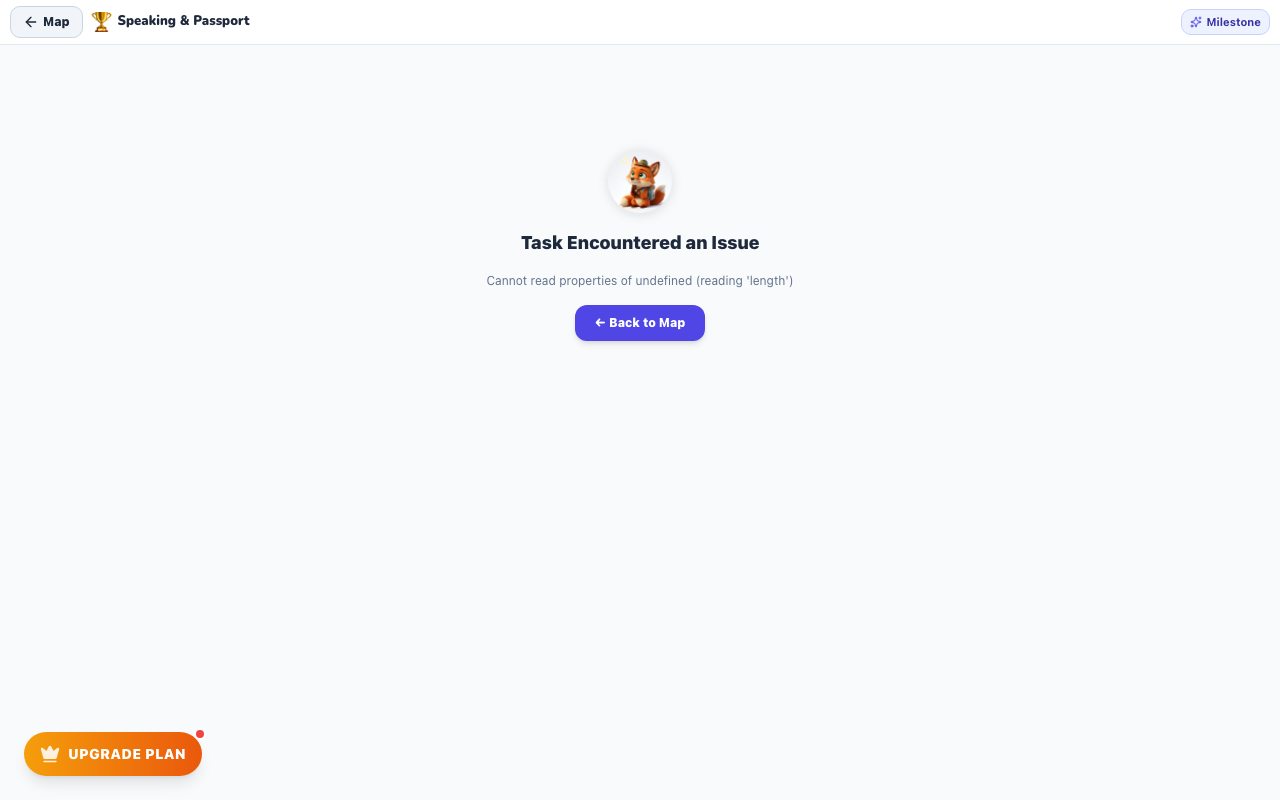
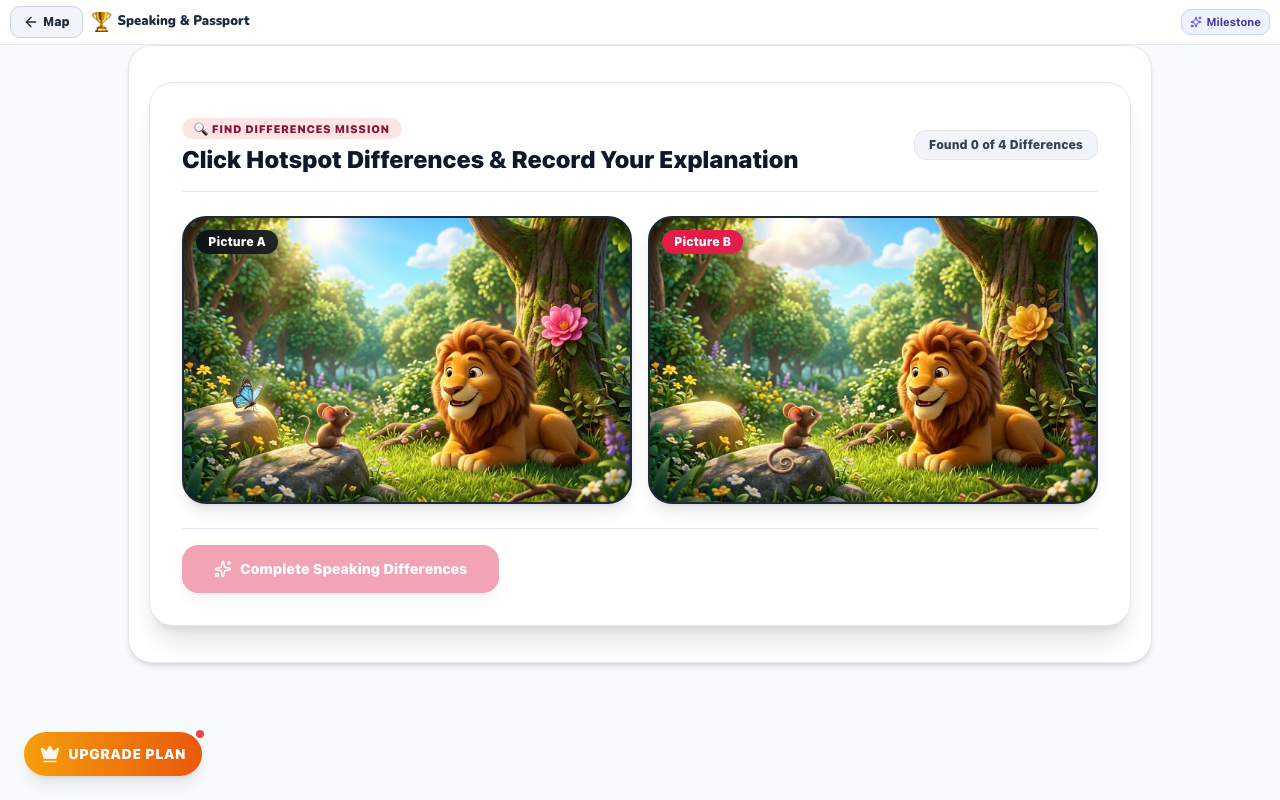
fix(w34): solve math_quest problemText, info_exchange 10+ char words, and FindDifferences data [multi-agent-review]

Changed region(s): [[0.125, 0.1562, 0.875, 0.75], [0.125, 0.7812, 0.875, 0.8125], [0.7188, 0.1562, 0.8438, 0.1875]]

diff --git a/src/data/weeks/week_34/speaking_hub.js b/src/data/weeks/week_34/speaking_hub.js
@@ -8,23 +8,23 @@ export const speakingHub = {
     candidate_card: {
       title: "The Lion's Home",
       items: [
-        { label: "Location", value: "Green Valley Forest" },
-        { label: "Favorite Food", value: "Fresh Fish & Fruit" },
-        { label: "Resting Time", value: "Sunny Afternoons" }
+        { label: "Wilderness Location", value: "Green Wilderness Forest" },
+        { label: "Freshwater Food", value: "Freshwater River Fish" },
+        { label: "Resting Time", value: "Sunny Peaceful Afternoons" }
       ]
     },
     examiner_card: {
-      title: "The Mouse's Home",
+      title: "The Mouse's Burrow",
       items: [
-        { label: "Location", value: "Under the Tall Oak Tree" },
-        { label: "Special Skill", value: "Chewing Strong Ropes" },
-        { label: "Best Friend", value: "The Mighty Lion" }
+        { label: "Burrow Location", value: "Underneath the Oak Tree" },
+        { label: "Protective Skill", value: "Chewing Strong Ropes" },
+        { label: "Loyal Friendship", value: "The Mighty Lion" }
       ]
     },
     prompt_questions: [
-      "Where does the lion live?",
-      "What is the lion's favorite food?",
-      "When does he like to rest?"
+      "Where is the lion's wilderness location?",
+      "What is his favorite freshwater food?",
+      "When does he enjoy peaceful afternoons?"
     ]
   },
   find_differences: {

diff --git a/src/components/cambridge/FindDifferencesInteractive.jsx b/src/components/cambridge/FindDifferencesInteractive.jsx
@@ -16,10 +16,16 @@ export function FindDifferencesInteractive({ customData, onComplete, isStealthMo
   const [score, setScore] = useState(null);
   const recognitionRef = useRef(null);
 
-  const differencesData = customData || {
-    picA: { title: 'Picture A (Original Scene)', image_url: '' },
-    picB: { title: 'Picture B (Difference Scene)', image_url: '' },
-    hotspots: []
+  const rawHotspots = (customData?.hotspots && Array.isArray(customData.hotspots))
+    ? customData.hotspots
+    : (customData?.differences && Array.isArray(customData.differences))
+      ? customData.differences
+      : [];
+
+  const differencesData = {
+    picA: customData?.picA || { title: 'Picture A (Original Scene)', image_url: '' },
+    picB: customData?.picB || { title: 'Picture B (Difference Scene)', image_url: '' },
+    hotspots: rawHotspots
   };
 
   const [showHint, setShowHint] = useState(false);

diff --git a/src/modules/hubs/station2/LearnMode/BarModelQuest.jsx b/src/modules/hubs/station2/LearnMode/BarModelQuest.jsx
@@ -117,9 +117,9 @@ export function BarModelQuest({ barModelData, weekNumber = 33, onComplete }) {
   const questions = rawQuestions.map((q, idx) => ({
     id: q.id || idx + 1,
     title: q.title || `Problem ${idx + 1}: Singapore Bar Model`,
-    problemText: q.problemText || q.text || 'Solve the Bar Model problem below:',
-    correctAnswer: q.correctAnswer || parseInt(q.answer) || 10,
-    svg_url: q.svg_url || `/images/week33/barmodel_w33_adv_p${idx + 1}.svg`,
+    problemText: q.problemText || q.problem_en || q.text || 'Solve the Bar Model problem below:',
+    correctAnswer: q.correctAnswer || q.answer_value || parseInt(q.answer) || 10,
+    svg_url: q.svg_url || q.bar_model_svg || `/images/week34/barmodel_w34_adv_p${idx + 1}.svg`,
     modelData: q.modelData || null,
     hintText: q.hintText || `Check the bar model diagram to calculate the target answer!`
   }));
